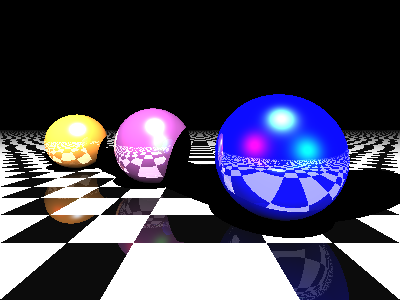
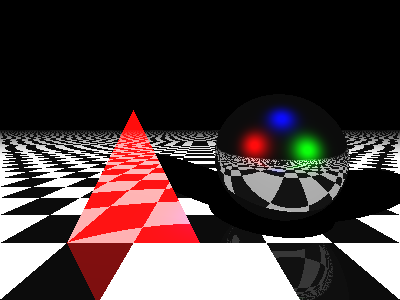
Parte 2

diff --git a/raytracing.py b/raytracing.py
@@ -39,7 +39,7 @@ color_light1 = np.array([0., 1., 0.]) # green light
 L2 = np.array([-15., 7., -10.])
 color_light2 = np.array([1., 0., 0.])  # red light
 L3 = np.array([1., 10., -3.])
-color_light3 = np.array([1., 2., 3.])  # blue light
+color_light3 = np.array([0., 0., 1.])  # blue light
 
 lights = np.array([L1,L2,L3])
 colors = np.array([color_light1, color_light2, color_light3])
@@ -83,11 +83,56 @@ def intersect_sphere(O, D, S, R):
     return np.inf
 
 
+def intersect_triangle(O, D, P, N):
+
+    p_intsc = intersect_plane(0,D,P[0],N);
+    if (p_intsc == np.inf):
+        return p_intsc
+
+    #Vértices del triángulo
+    A = P[0]
+    B = P[1]
+    C = P[2]
+
+    wO = O - A
+
+    a = -np.dot(N,wO)
+    b = np.dot(N,D)
+    r = a / b
+    if (r < 1e-6):
+        return np.inf
+
+    I = O + r*D
+
+    #Vectores del tríangulo
+    u = B - A
+    v = C - A
+    w = I - A
+
+    #Cálculo del producto de puntos
+    dot_uu = np.dot(u,u)
+    dot_uv = np.dot(u,v)
+    dot_vv = np.dot(v,v)
+    dot_wu = np.dot(w,u)
+    dot_wv = np.dot(w,v)
+
+    D = dot_uv * dot_uv - dot_uu * dot_vv
+    U = (dot_uv * dot_wv - dot_vv * dot_wu) / D
+    V = (dot_uv * dot_wu - dot_uu * dot_wv) / D
+
+    if (U >= 0.) and (V >= 0.) and (U + V < 1.):
+        return 1.
+    else:
+        return np.inf
+
+
 def intersect(O, D, obj):
     if obj['type'] == 'plane':
         return intersect_plane(O, D, obj['position'], obj['normal'])
     elif obj['type'] == 'sphere':
         return intersect_sphere(O, D, obj['position'], obj['radius'])
+    elif obj['type'] == 'triangle':
+        return intersect_triangle(O, D, obj['position'], obj['normal'])
 
 
 def get_normal(obj, M):
@@ -95,6 +140,8 @@ def get_normal(obj, M):
     if obj['type'] == 'sphere':
         N = normalize(M - obj['position'])
     elif obj['type'] == 'plane':
+        N = obj['normal']
+    elif obj['type'] == 'triangle':
         N = obj['normal']
     return N
 
@@ -155,13 +202,24 @@ def add_plane(position, normal):
                 diffuse_c=.75, specular_c=.5, reflection=.25)
 
 
+def add_triangle(position, color):
+
+    u = np.subtract(position[1], position[0])
+    v = np.subtract(position[2], position[1])
+    normal = (np.cross(u, v))
+
+    return dict(type='triangle', position=position,
+        color=np.array(color), reflection=.5, normal=normal)
+
+
 # List of objects.
 color_plane0 = 1. * np.ones(3)
 color_plane1 = 0. * np.ones(3)
 
-scene = [add_sphere([.75, .1, 1.], .6, [0., 0., 1.]),
-         add_sphere([-.75, .1, 2.25], .6, [.5, .223, .5]),
-         add_sphere([-2.75, .1, 3.5], .6, [1., .572, .184]),
+triangle1_pos = np.array([[-1.,-0.5,0.5],[-0.5,0.5,0.5],[0.,-0.5,0.5]])
+
+scene = [add_triangle(triangle1_pos,[1.,0.,0.]),
+         add_sphere([.75, .1, 1.], .6, [0., 0., 0.]),
          add_plane([0., -.5, 0.], [0., 1., 0.]),
          ]
 
